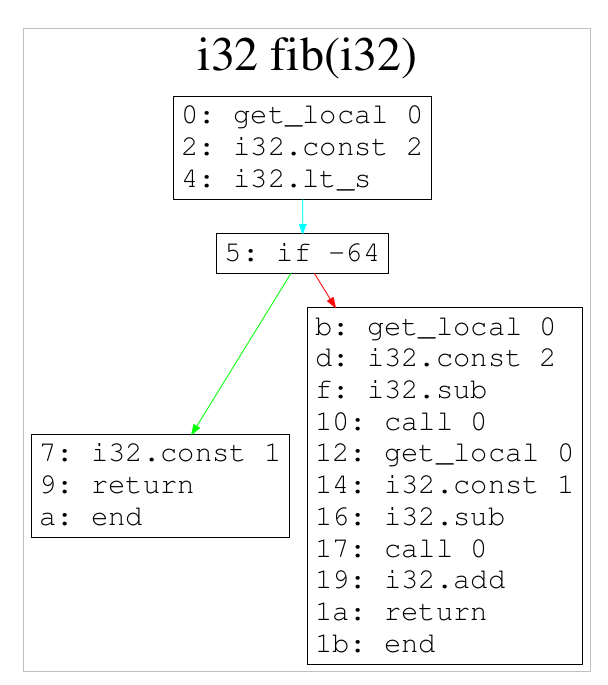
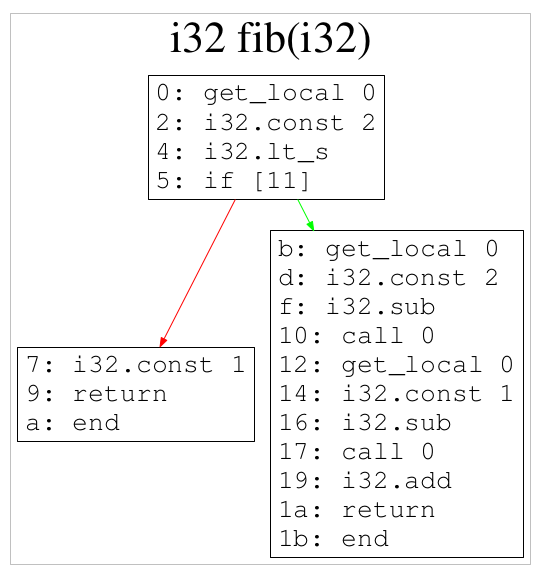
improve wasm cfg

diff --git a/octopus/arch/wasm/cfg.py b/octopus/arch/wasm/cfg.py
@@ -94,8 +94,8 @@ def enum_blocks_edges(function_id, instructions):
     intent = 0
     blocks_tmp = []
     blocks_list = []
-    # remove last instruction that is 'end' for the funtion
-    #tt = instructions[:-1]
+
+    # we need to do that because jump label are relative to the current block index
     for index, inst in enumerate(instructions[:-1]):
 
         if inst.is_block_terminator:
@@ -127,20 +127,30 @@ def enum_blocks_edges(function_id, instructions):
             rep = next(((i, s, e, n) for i, s, e, n in blocks_list if (i == (depth - d2) and s < inst.offset and e > inst.offset_end)), None)
             if rep:
                 i, start, end, name = rep
+                # if we branch to a 'loop' label
+                # we go at the entry of the 'loop' block
                 if name == 'loop':
-                    value = start  # else name == 'block'
+                    value = start
+                # if we branch to a 'block' label
+                # we go at the end of the "block" block
                 elif name == 'block' or name == 'func':
                     value = end
+                # we don't know
                 else:
                     value = None
                 inst.xref.append(value)
                 xrefs.append(value)
 
-    # remove "block" instruction - not usefull graphicaly
-    # instructions = [x for x in instructions if x.name not in ['block', 'loop']]
+    # assign xref for "if" branch
+    # needed because 'if' don't used label
+    for index, inst in enumerate(instructions[:-1]):
+        if inst.name == 'if':
+            g_block = next(iter([b for b in blocks_list if b[1] == inst.offset]), None)
+            jump_target = g_block[2] + 1
+            inst.xref.append(jump_target)
+            xrefs.append(jump_target)
 
     # enumerate blocks
-
     new_block = True
 
     for index, inst in enumerate(instructions):
@@ -151,13 +161,12 @@ def enum_blocks_edges(function_id, instructions):
                                inst,
                                name=format_bb_name(function_id, inst.offset))
             new_block = False
-
         # add current instruction to the basicblock
         block.instructions.append(inst)
 
         # next instruction is a jump target
         if index < (len(instructions) - 1) and \
-           instructions[index + 1].offset in xrefs:
+                instructions[index + 1].offset in xrefs:
             new_block = True
         # absolute jump - br
         elif inst.is_branch_unconditional:
@@ -166,16 +175,17 @@ def enum_blocks_edges(function_id, instructions):
         elif inst.is_branch_conditional:
             new_block = True
         # end of a block
-        elif index < (len(instructions) - 1) and \
-                inst.name in ['end']:# and block.start_offset != inst.offset:  # is_block_terminator
-            new_block = True
         #elif index < (len(instructions) - 1) and \
-        #        instructions[index + 1].name == 'else':  # is_block_terminator
+        #        inst.name in ['end']:# and block.start_offset != inst.offset:  # is_block_terminator
         #    new_block = True
-        # start of a block
         elif index < (len(instructions) - 1) and \
-                instructions[index + 1].is_block_starter:
+                instructions[index + 1].name in ['else', 'loop']:  # is_block_terminator
             new_block = True
+        # start of a block
+        #elif index < (len(instructions) - 1) and \
+        #        instructions[index + 1].is_block_starter and \
+        #        instructions[index + 1].name not in ['if', 'block', 'end']:
+        #    new_block = True
         # last instruction of the bytecode
         elif inst.offset == instructions[-1].offset:
             new_block = True
@@ -198,28 +208,32 @@ def enum_blocks_edges(function_id, instructions):
                 edges.append(Edge(block.name, format_bb_name(function_id, ref), EDGE_UNCONDITIONAL))
         # conditionnal jump - br_if, if
         elif inst.is_branch_conditional:
-            if inst.name == 'if':
-                edges.append(Edge(block.name,
-                             format_bb_name(function_id, inst.offset_end + 1),
-                             EDGE_CONDITIONAL_TRUE))
-                g_block = next(iter([b for b in blocks_list if b[1] == inst.offset]), None)
-                jump_target = g_block[2] + 1
-                edges.append(Edge(block.name,
-                             format_bb_name(function_id, jump_target),
-                             EDGE_CONDITIONAL_FALSE))
-            else:
-                for ref in inst.xref:
-                    if ref != inst.offset_end + 1:
-                        edges.append(Edge(block.name,
-                                          format_bb_name(function_id, ref),
-                                          EDGE_CONDITIONAL_TRUE))
-                edges.append(Edge(block.name,
-                             format_bb_name(function_id, inst.offset_end + 1),
-                             EDGE_CONDITIONAL_FALSE))
+            #if inst.name == 'if':
+            #                edges.append(Edge(block.name,
+            #                             format_bb_name(function_id, inst.offset_end + 1),
+            #                             EDGE_CONDITIONAL_TRUE))
+            #                g_block = next(iter([b for b in blocks_list if b[1] == inst.offset]), None)
+            #                jump_target = g_block[2] + 1
+            #                edges.append(Edge(block.name,
+            #                             format_bb_name(function_id, jump_target),
+            #                             EDGE_CONDITIONAL_FALSE))
+            #else:
+            for ref in inst.xref:
+                if ref != inst.offset_end + 1:
+                    # create conditionnal true edges
+                    edges.append(Edge(block.name,
+                                      format_bb_name(function_id, ref),
+                                      EDGE_CONDITIONAL_TRUE))
+            # create conditionnal false edge
+            edges.append(Edge(block.name,
+                         format_bb_name(function_id, inst.offset_end + 1),
+                         EDGE_CONDITIONAL_FALSE))
+        # instruction that end the flow
         elif [i.name for i in block.instructions if i.is_halt]:
             pass
         elif inst.is_halt:
             pass
+        # add the last intruction "end" in the last block
         elif inst.offset != instructions[-1].offset:
             # EDGE_FALLTHROUGH
             edges.append(Edge(block.name, format_bb_name(function_id, inst.offset_end + 1), EDGE_FALLTHROUGH))

diff --git a/octopus/tests/wasm/test_cfg.py b/octopus/tests/wasm/test_cfg.py
@@ -43,7 +43,7 @@ class WasmCFGraphTestCase(unittest.TestCase):
         r_nodes = ['i32 fib(i32)']
         len_call_edges = 2
         callgraph(module_bytecode, r_nodes, len_call_edges)
-        controlflowgraph(module_bytecode, 1, 4, 3)
+        controlflowgraph(module_bytecode, 1, 3, 2)
 
 if __name__ == '__main__':
     suite = unittest.TestLoader().loadTestsFromTestCase(WasmCFGraphTestCase)
